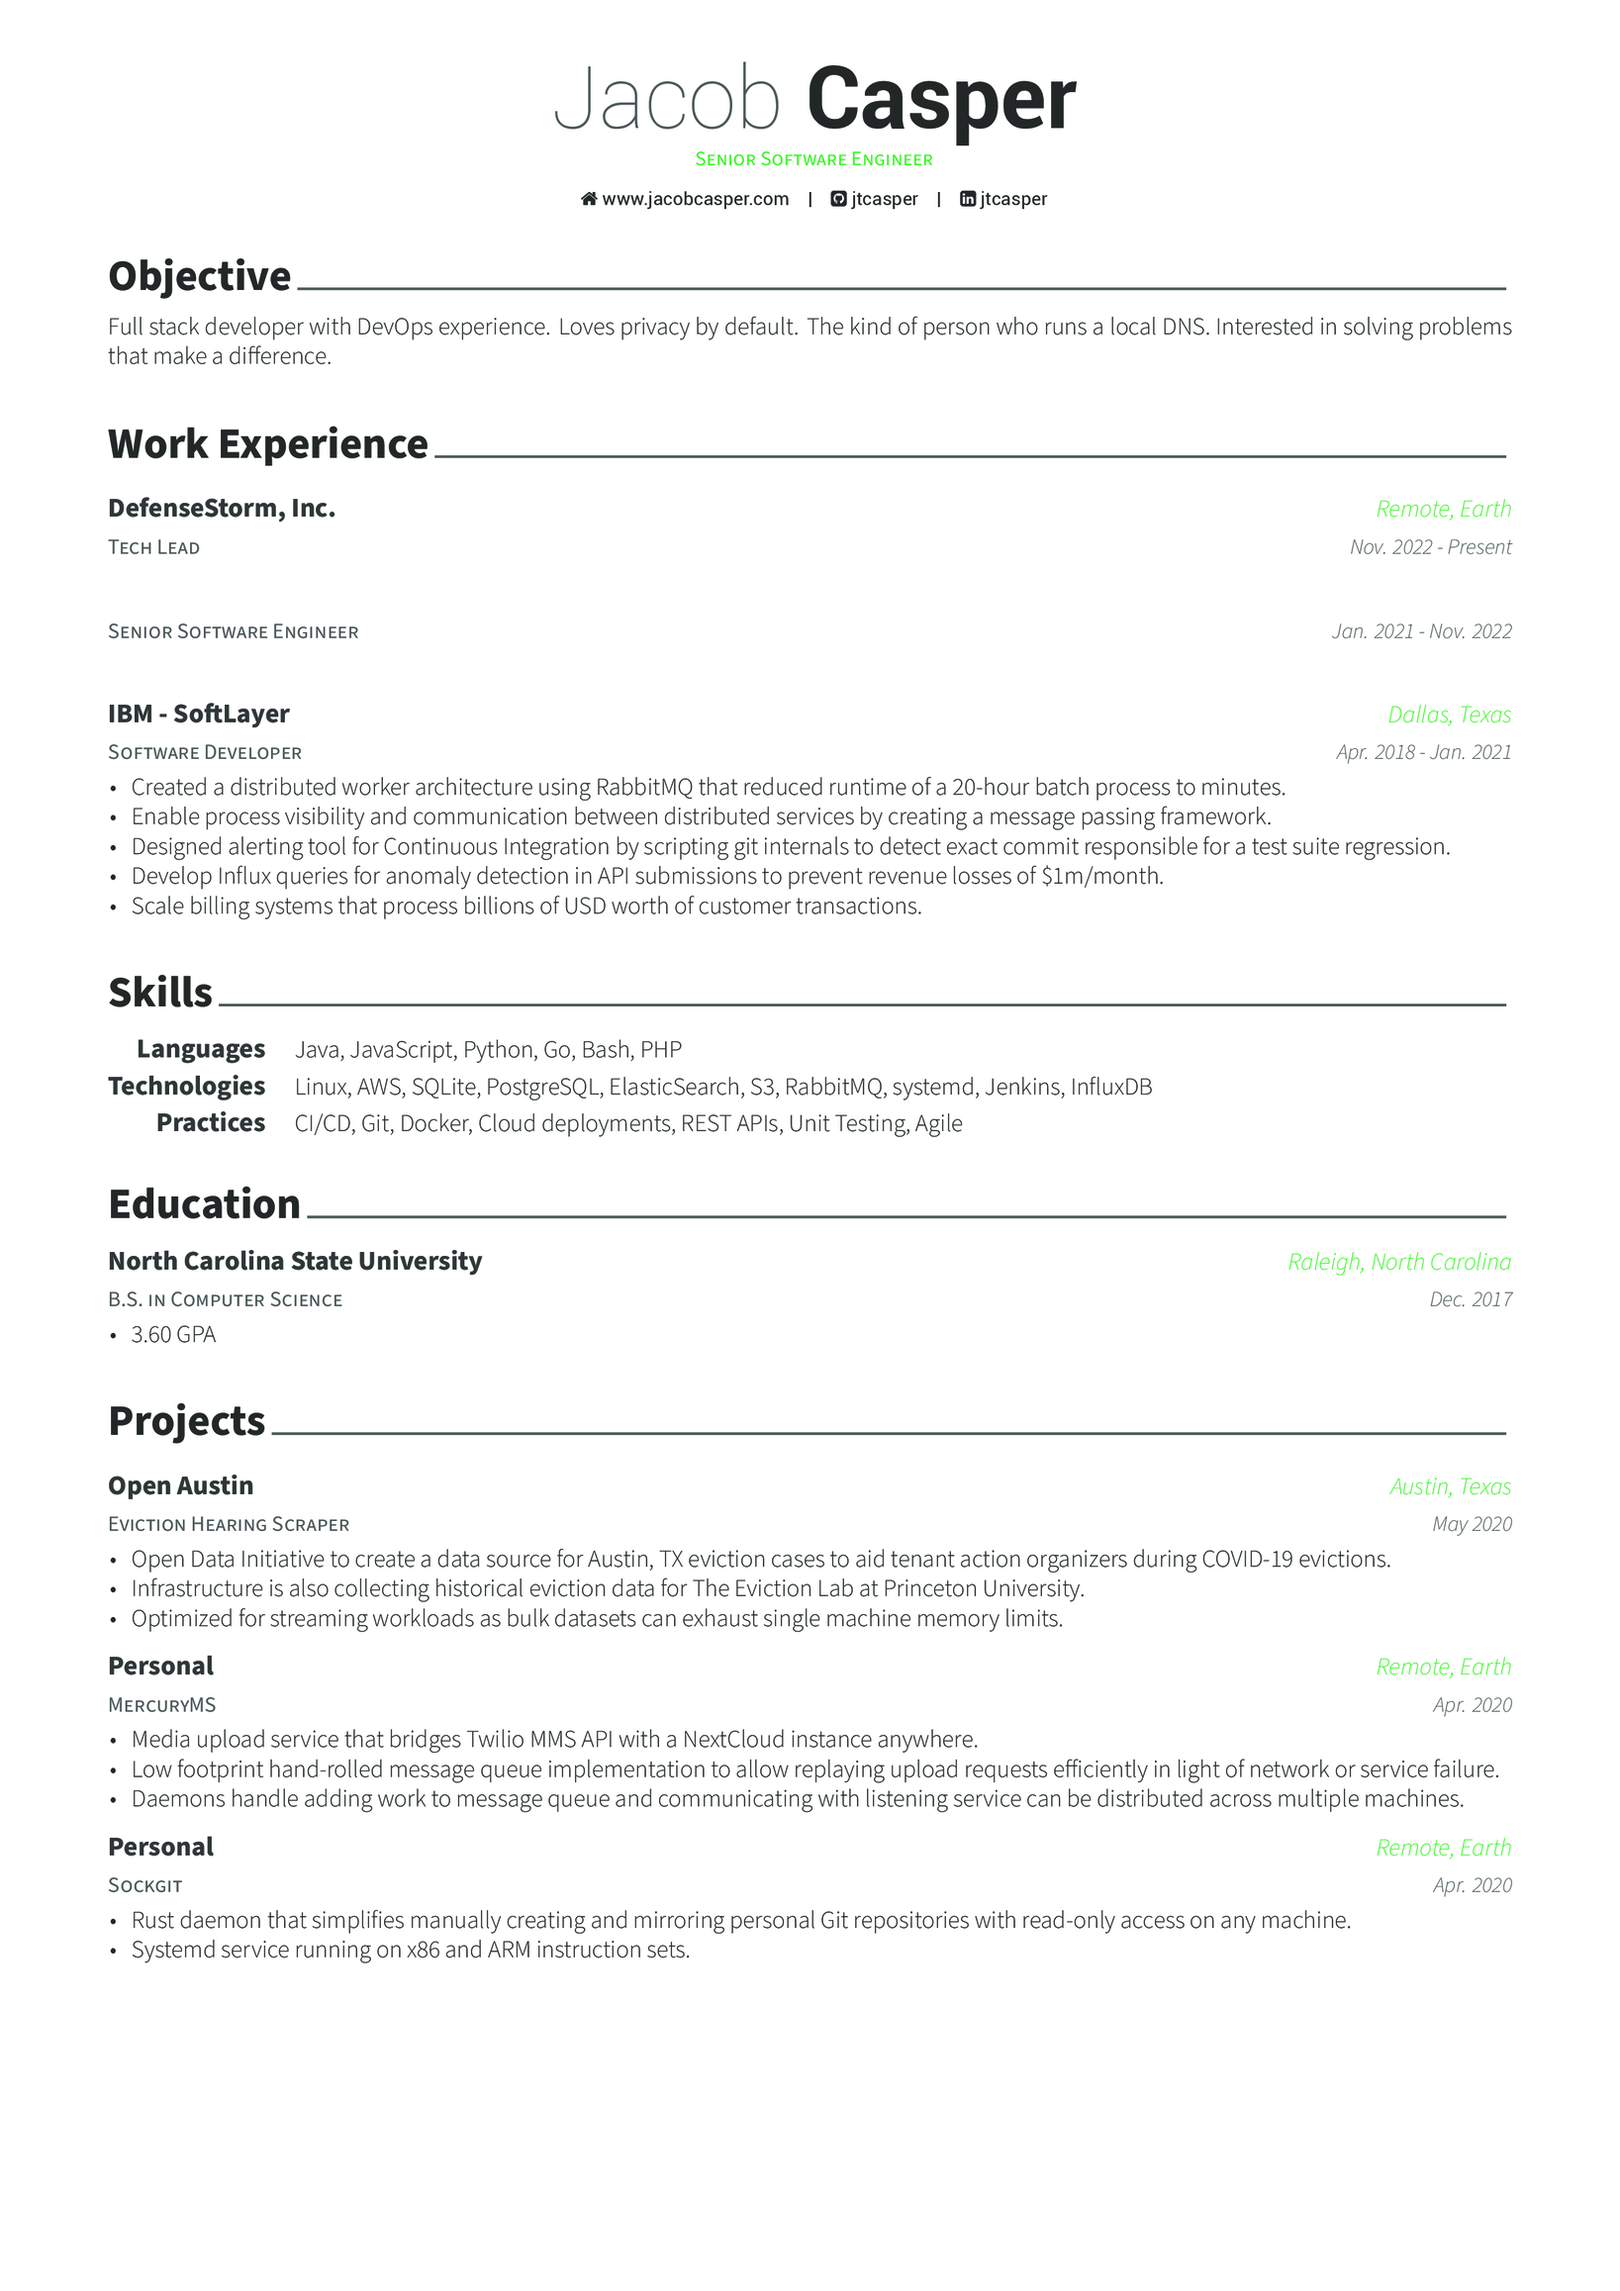
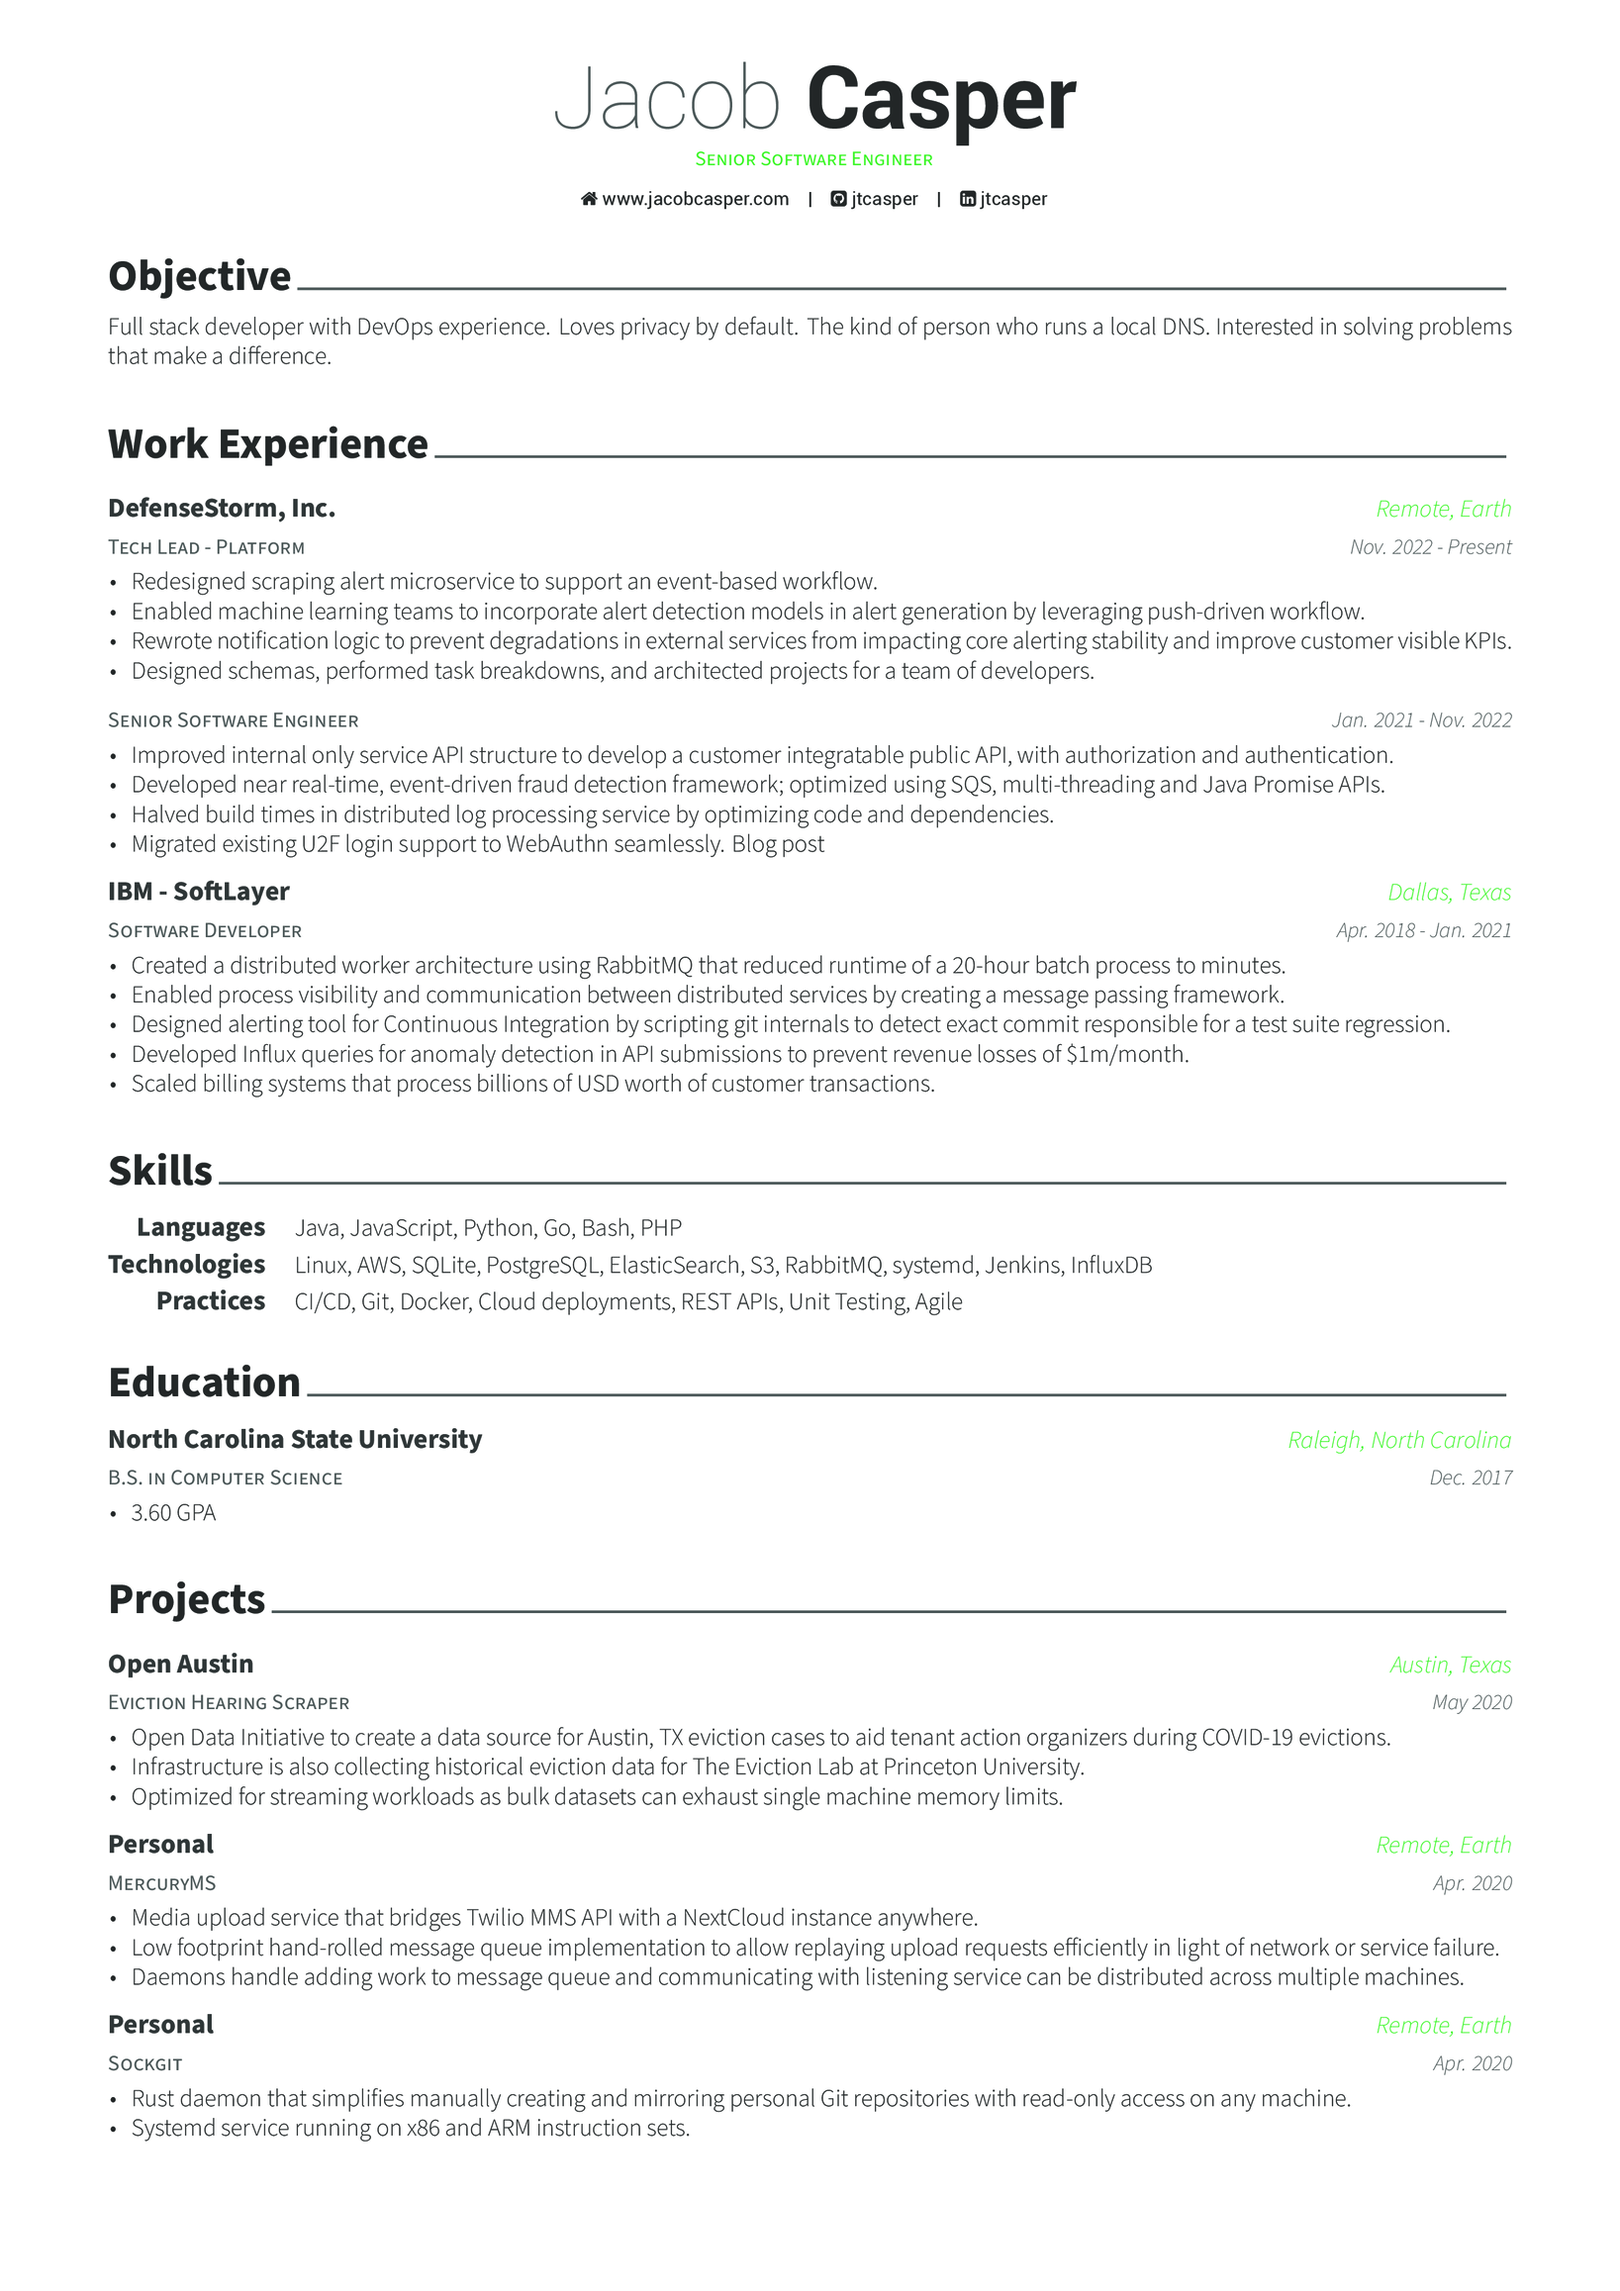
Add DS experience, touch up tenses.

diff --git a/resume/experience.tex b/resume/experience.tex
@@ -3,12 +3,16 @@
 \begin{cventries}
 
     \cventry
-    {Tech Lead}
+    {Tech Lead - Platform}
     {DefenseStorm, Inc.}
     {Remote, Earth}
     {Nov. 2022 - Present}
     {
         \begin{cvitems}
+            \item {Redesigned scraping alert microservice to support an event-based workflow.}
+            \item {Enabled machine learning teams to incorporate alert detection models in alert generation by leveraging push-driven workflow.}
+            \item {Rewrote notification logic to prevent degradations in external services from impacting core alerting stability and improve customer visible KPIs.}
+            \item {Designed schemas, performed task breakdowns, and architected projects for a team of developers.}
         \end{cvitems}
     }
 
@@ -19,6 +23,12 @@
     {Jan. 2021 - Nov. 2022}
     {
         \begin{cvitems}
+            \item {Improved internal only service API structure to develop a customer integratable public API, with authorization and authentication.}
+            \item {Developed near real-time, event-driven fraud detection framework; optimized using SQS, multi-threading and Java Promise APIs.}
+            \item {Halved build times in distributed log processing service by optimizing code and dependencies.}
+            \item {Migrated existing U2F login support to WebAuthn seamlessly. \href{https://www.jacobcasper.com/u2f2webauthn.html}{Blog post}}
+            %\item {Optimize API requests that cannot fit in service memory by utilizing streaming REST requests.}
+            %\item {Develop distributed request tracing for observability.}
         \end{cvitems}
     }
 
@@ -30,10 +40,10 @@
 	{
 		\begin{cvitems}
 			\item {Created a distributed worker architecture using RabbitMQ that reduced runtime of a 20-hour batch process to minutes.}
-			\item {Enable process visibility and communication between distributed services by creating a message passing framework.}
+			\item {Enabled process visibility and communication between distributed services by creating a message passing framework.}
 			\item {Designed alerting tool for Continuous Integration by scripting git internals to detect exact commit responsible for a test suite regression.}
-			\item {Develop Influx queries for anomaly detection in API submissions to prevent revenue losses of \$1m/month.}
-			\item {Scale billing systems that process billions of USD worth of customer transactions.}
+			\item {Developed Influx queries for anomaly detection in API submissions to prevent revenue losses of \$1m/month.}
+			\item {Scaled billing systems that process billions of USD worth of customer transactions.}
 %           \item {Integrate and consume third party web services.}
 %			\item {Implement tooling to automate billing processes.}
 		\end{cvitems}
